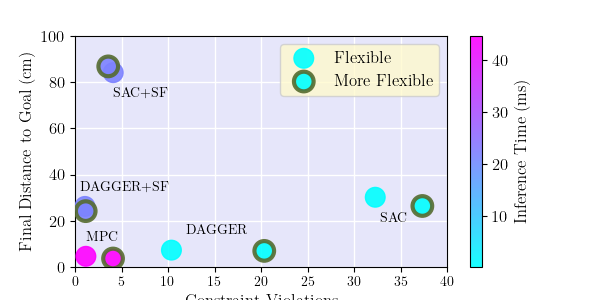
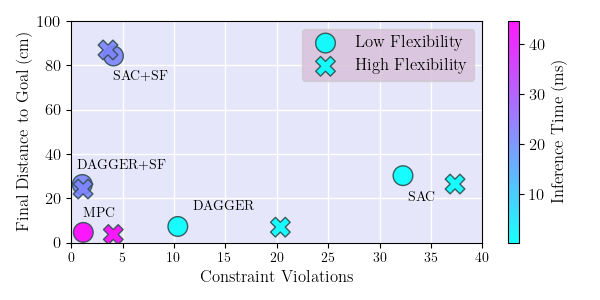
plot visual update

diff --git a/tests/test_kpi.py b/tests/test_kpi.py
@@ -375,6 +375,9 @@ if cfg.kpi.distance_constraint_time_scatter_plot:
         s=200,
         c=timings,
         cmap="cool",
+        marker="o",
+        edgecolors="darkslategrey",
+        linewidths=1,
         alpha=0.9,
     )
     # --- flexible ---
@@ -399,9 +402,10 @@ if cfg.kpi.distance_constraint_time_scatter_plot:
         s=200,
         c=timings,
         cmap="cool",
-        edgecolors="darkolivegreen",
-        linewidths=3,
+        edgecolors="darkslategrey",
+        linewidths=1,
         alpha=0.9,
+        marker="X",
     )
 
     graph_cbar = fig.colorbar(mappable=graph, ax=ax)
@@ -411,10 +415,10 @@ if cfg.kpi.distance_constraint_time_scatter_plot:
     ax.set_xlim(0.0, 40)
     ax.set_ylim(0.0, 100)
     ax.legend(
-        ["Flexible", "More Flexible"],
+        ["Low Flexibility", "High Flexibility"],
         loc="upper right",
         fontsize=12,
-        facecolor="lemonchiffon",
+        facecolor="thistle",
     )
 
     # Annotate points
@@ -431,6 +435,7 @@ if cfg.kpi.distance_constraint_time_scatter_plot:
     # ax.set_title("Reward vs Constraint Violation", fontdict={"fontsize": 16})
     ax.set_xlabel("Constraint Violations", fontdict={"fontsize": 12})
     ax.set_ylabel("Final Distance to Goal (cm)", fontdict={"fontsize": 12})
+    fig.tight_layout()
     fig.savefig(f"{PLOT_DIR}/kpi_distance_constraint_time_scatter_with_flex.png")
     fig.savefig(f"{PLOT_DIR}/kpi_distance_constraint_time_scatter_with_flex.pdf")
     plt.show()
